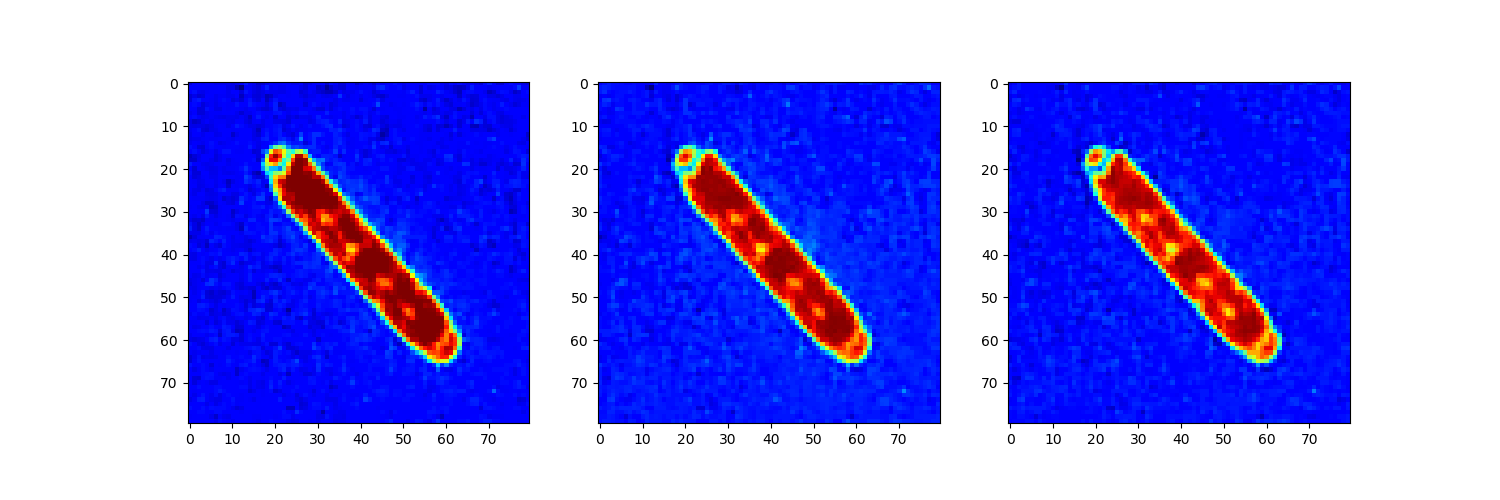
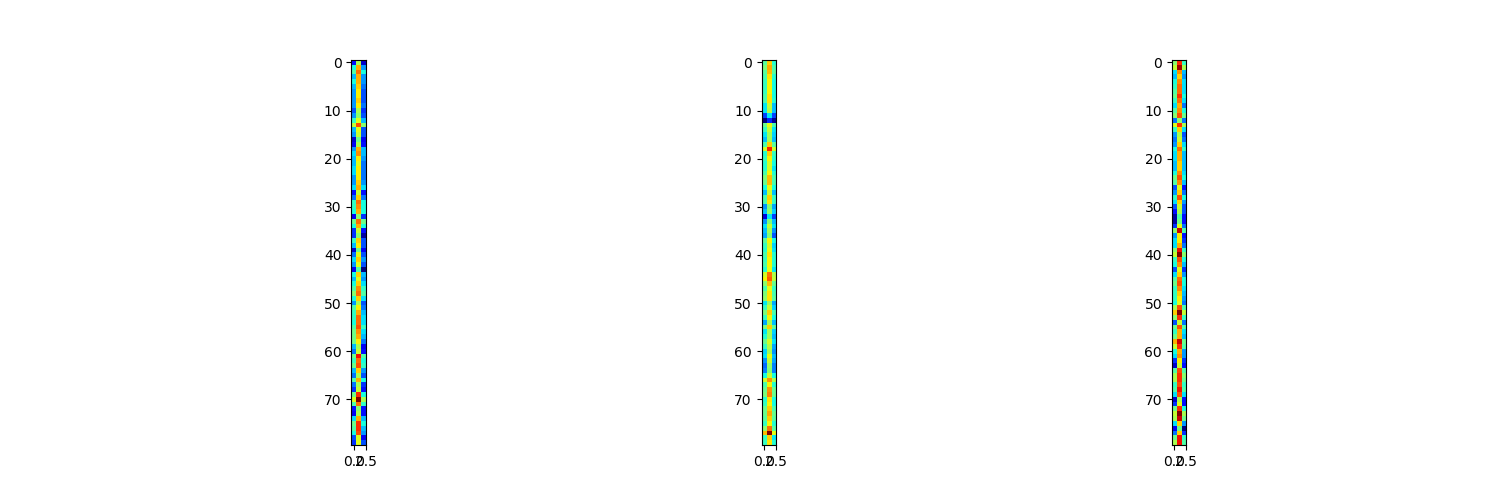
bug fix target now probability

diff --git a/ship_detection.py b/ship_detection.py
@@ -48,11 +48,12 @@ def load_data_from_json(file = './data/shipsnet.json'):
     weight = 80
     height = 80
     X = input_data.reshape([-1, n_spectrum, weight, height])
+    X = np.transpose(X, (0, 2, 3, 1))
     return X, output_data
 
 
 
-def plot_example_rgb(pic, savefile=False):
+def plot_example_rgb(pic, savefile=None):
     '''
     input example X image pic[X,Y,z]
     :return:
@@ -77,7 +78,7 @@ def plot_example_rgb(pic, savefile=False):
 
     plt.subplot(1, 3, 3)
     plt.imshow(blue_spectum)
-    if savefile is False:
+    if savefile is None:
         plt.show()
     else:
         plt.savefig(savefile)
@@ -130,10 +131,19 @@ def define_custom_convnet():
 if __name__ == '__main__':
 
     # download dataset from json object
-    X, y = load_data_from_json(file = './data/shipsnet.json')
+    X, target = load_data_from_json(file = './data/shipsnet.json')
+
+    # the target is a 2d array of the probability
+    # that the image is a ship or isnt a ship
+    # need to construct this 2d prob array
+    y = np.zeros((len(target),2))
+    y[target == 1, 0] = 1
+    y[target == 0, 1] = 1
+
+
 
     # plot image file
-    plot_example_rgb(X[0], savefile='example_input.png')
+    plot_example_rgb(X[0], savefile = 'example_input.png')
 
     # split into train test data
     X_train, X_test, y_train, y_test = train_test_split(X, y,
